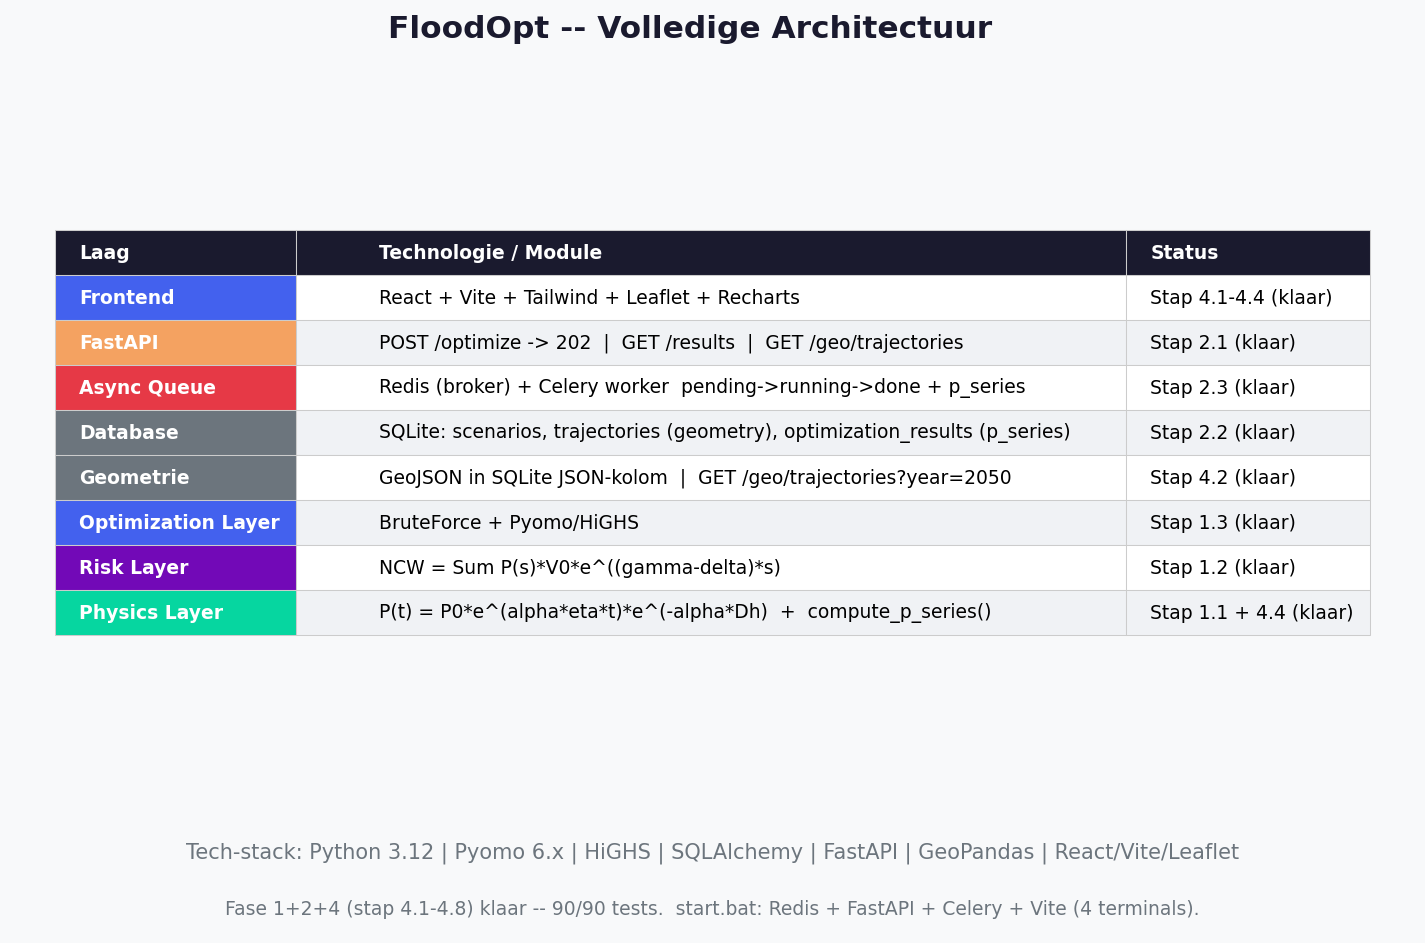
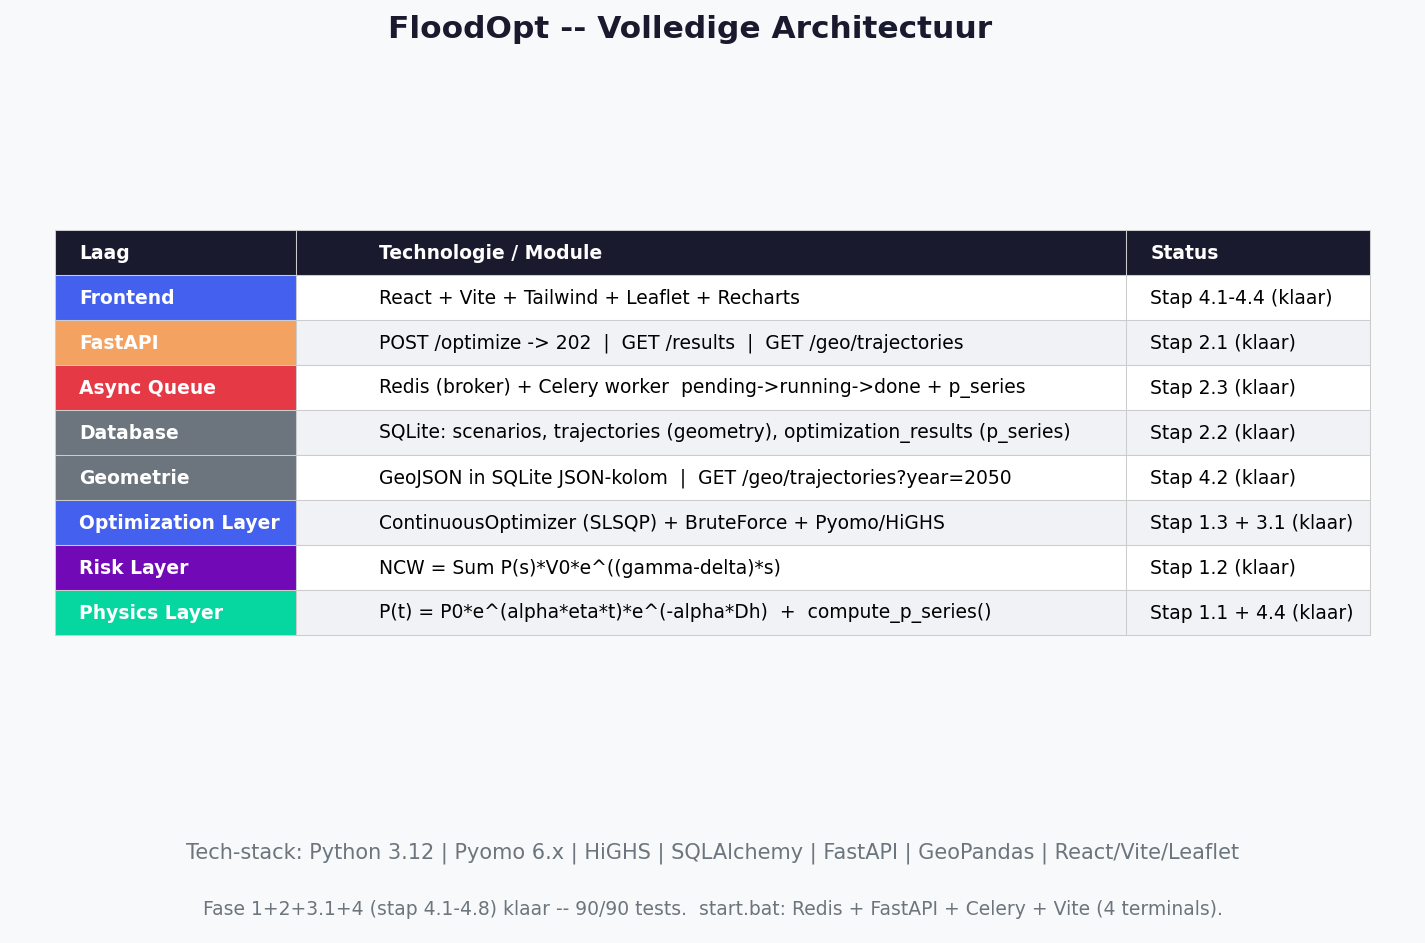
Update architectuur, README en development_log: stap 3.1 continue optimizer
README:
- Fasering: Fase 3 nu 'In uitvoering' (3.1 klaar, 3.2-3.3 gepland)
- Tech stack: ContinuousOptimizer (scipy SLSQP) als primaire optimizer
  + Pyomo/BruteForce behouden voor verificatie en discrete HWBP-maatregelen
- Stap 3.1 volledig beschreven incl. solveroverzicht en kostenformule
- Stap 3.2 en 3.3 als placeholders toegevoegd

development_log:
- Architectuurkeuzes: twee optimizer-regels (continu + discreet)

Diagrammen:
- architecture.png: Optimization Layer bijgewerkt met ContinuousOptimizer
- architecture.png: footer 'stap 4.1-4.8' -> 'stap 3.1+4.1-4.8'

diff --git a/scripts/generate_docs.py b/scripts/generate_docs.py
@@ -144,7 +144,7 @@ def make_architecture() -> None:
             "GeoJSON in SQLite JSON-kolom  |  GET /geo/trajectories?year=2050",
             "Stap 4.2 (klaar)",
         ],
-        ["Optimization Layer", "BruteForce + Pyomo/HiGHS", "Stap 1.3 (klaar)"],
+        ["Optimization Layer", "ContinuousOptimizer (SLSQP) + BruteForce + Pyomo/HiGHS", "Stap 1.3 + 3.1 (klaar)"],
         ["Risk Layer", "NCW = Sum P(s)*V0*e^((gamma-delta)*s)", "Stap 1.2 (klaar)"],
         [
             "Physics Layer",
@@ -163,14 +163,14 @@ def make_architecture() -> None:
 
     # Row-specific background colors for layer identity
     row_colors = [
-        BLUE,  # Frontend
+        BLUE,    # Frontend
         ORANGE,  # FastAPI
-        RED,  # Async Queue
-        GREY,  # Database
-        GREY,  # GeoPandas
-        BLUE,  # Optimization
+        RED,     # Async Queue
+        GREY,    # Database
+        GREY,    # Geometrie
+        BLUE,    # Optimization
         PURPLE,  # Risk
-        GREEN,  # Physics
+        GREEN,   # Physics
     ]
     for data_row_idx, color in enumerate(row_colors):
         cell = tbl[(data_row_idx + 1, 0)]  # +1 because row 0 is header
@@ -194,7 +194,7 @@ def make_architecture() -> None:
     ax_txt.text(
         0.5,
         0.15,
-        "Fase 1+2+4 (stap 4.1-4.8) klaar -- 90/90 tests.  "
+        "Fase 1+2+3.1+4 (stap 4.1-4.8) klaar -- 90/90 tests.  "
         "start.bat: Redis + FastAPI + Celery + Vite (4 terminals).",
         ha="center",
         va="center",

diff --git a/README.md b/README.md
@@ -57,7 +57,8 @@ Zie `docs/architecture.png` voor het volledige architectuurdiagram.
 | Component | Technologie | Reden |
 |---|---|---|
 | Rekenkernel | Python (`floodopt-core`) | Pure Python, geen framework-lock-in |
-| Optimizer | Pyomo 6 + HiGHS (MILP) | Open-source, schaalt naar grote N |
+| Optimizer (continu) | scipy SLSQP (`ContinuousOptimizer`) | Primair — tijdstip + hoogte simultaan, W correct |
+| Optimizer (discreet) | Pyomo 6 + HiGHS (MILP) + BruteForce | Verificatie en toekomstige discrete HWBP-maatregelen |
 | Backend API | FastAPI | Snel, automatische Swagger UI |
 | Database | **SQLite** (dev) → PostgreSQL optioneel (prod) | Nul installatie voor development |
 | Geometrie | GeoJSON in SQLite (JSON-kolom) | Geen PostGIS nodig voor MVP |
@@ -213,7 +214,7 @@ Referentiedataset: `tests/validation/optimalise_ring_2011.sqlite` — afgeleid v
 | 0 — Tooling | ✅ Klaar | Projectstructuur, packaging, pre-commit |
 | 1 — MVP rekenkernel | ✅ Klaar | Physics, Risk, Optimization, CLI smoke test |
 | 2 — Backend & API | ✅ Klaar | FastAPI, SQLite, Celery + Redis |
-| 3 — Uitbreidingen rekenkernel | ⏳ Gepland | FORM/Monte Carlo, lengte-effecten, rivierverruiming |
+| 3 — Uitbreidingen rekenkernel | 🚧 In uitvoering | 3.1 ✅ Continue optimizer · 3.2–3.3 gepland |
 | 4 — Frontend | 🚧 In uitvoering | 4.1–4.8 ✅ · 4.9 normtraject-bundel |
 | 5 — Data-actualisatie 2026 | ⏳ Gepland | NBPW WFS, WBI2023, KNMI 2023, HWBP, SSM2 |
 
@@ -299,15 +300,31 @@ start.bat   ← start Redis + API + Worker + Frontend
 
 ---
 
-### Fase 3 — Uitbreidingen rekenkernel ⏳
+### Fase 3 — Uitbreidingen rekenkernel 🚧
 
-| Stap | Inhoud | Wat blijft ongewijzigd |
+#### Stap 3.1 ✅ — Continue optimalisatie (tijdstip + hoogte)
+
+Conform de OptimaliseRing-aanpak: simultane optimalisatie van T_i (tijdstip) én u_i (hoogte) van opeenvolgende investeringen via `scipy.optimize` (SLSQP).
+
+**Kernverbeteringen ten opzichte van discrete MILP:**
+- W (cumulatieve eerdere verhogingen) correct meegewogen: $IC(u_i, W_i) = (C + b\,u_i)\,e^{\lambda(u_i+W_i)}$
+- Timing geoptimaliseerd (niet langer hardcoded)
+- Meerdere investeringen per traject (1–3), elk met kostenopsplitsing A/(B+C)
+- Solver-optie: `"continuous"` in API en frontend dropdown
+
+**Solveroverzicht na stap 3.1:**
+
+| Solver | Aanpak | Wanneer gebruiken |
 |---|---|---|
-| 3.1 | Probabilistische sterkte: FORM / Monte Carlo | Optimizer, Risk Layer |
-| 3.2 | Lengte-effecten & correlaties | Optimizer, Physics Layer |
-| 3.3 | Rivierverruiming & hydraulische interacties | Optimizer, Risk Layer |
+| `continuous` | Continue optimalisatie T + u via SLSQP | Primaire keuze (OR-equivalent) |
+| `brute_force` | Exact, discrete kandidaten | Verificatie, kleine N |
+| `pyomo` | MILP, discrete kandidaten | Toekomstige discrete HWBP-maatregelen |
 
-Nieuwe implementaties achter bestaande Protocols — optimizer hoeft niet aangepast te worden.
+**Vereiste invoer:** kostenfunctie-parameters C, b, λ, Ω per traject (uit 2011-database of HWBP).
+
+#### Stap 3.2 ⏳ — Lengte-effecten & correlaties
+
+#### Stap 3.3 ⏳ — Rivierverruiming & hydraulische interacties
 
 ---
 

diff --git a/development_log.md b/development_log.md
@@ -10,7 +10,8 @@
 | DB upgrade pad | PostgreSQL optioneel via `DATABASE_URL` | `init_schema()` werkt met beide |
 | Geometrie | GeoJSON als JSON-kolom in SQLite | Geen PostGIS/GeoPandas nodig voor MVP |
 | Frontend kaarten | **Leaflet** (React + Vite) | Leest GeoJSON direct van de API |
-| Optimizer | Pyomo + HiGHS (MILP) | Open-source, exact voor MIN_COST/MAX_RR |
+| Optimizer (continu) | scipy SLSQP — `ContinuousOptimizer` | Primair — tijdstip + hoogte simultaan, W correct (stap 3.1) |
+| Optimizer (discreet) | Pyomo + HiGHS (MILP) + BruteForce | Verificatie en toekomstige discrete HWBP-maatregelen |
 | Queue | Redis + Celery | Async optimalisaties zonder HTTP-timeout |
 | Grafiek | Recharts | P(t)-tijdreeks in de browser |
 